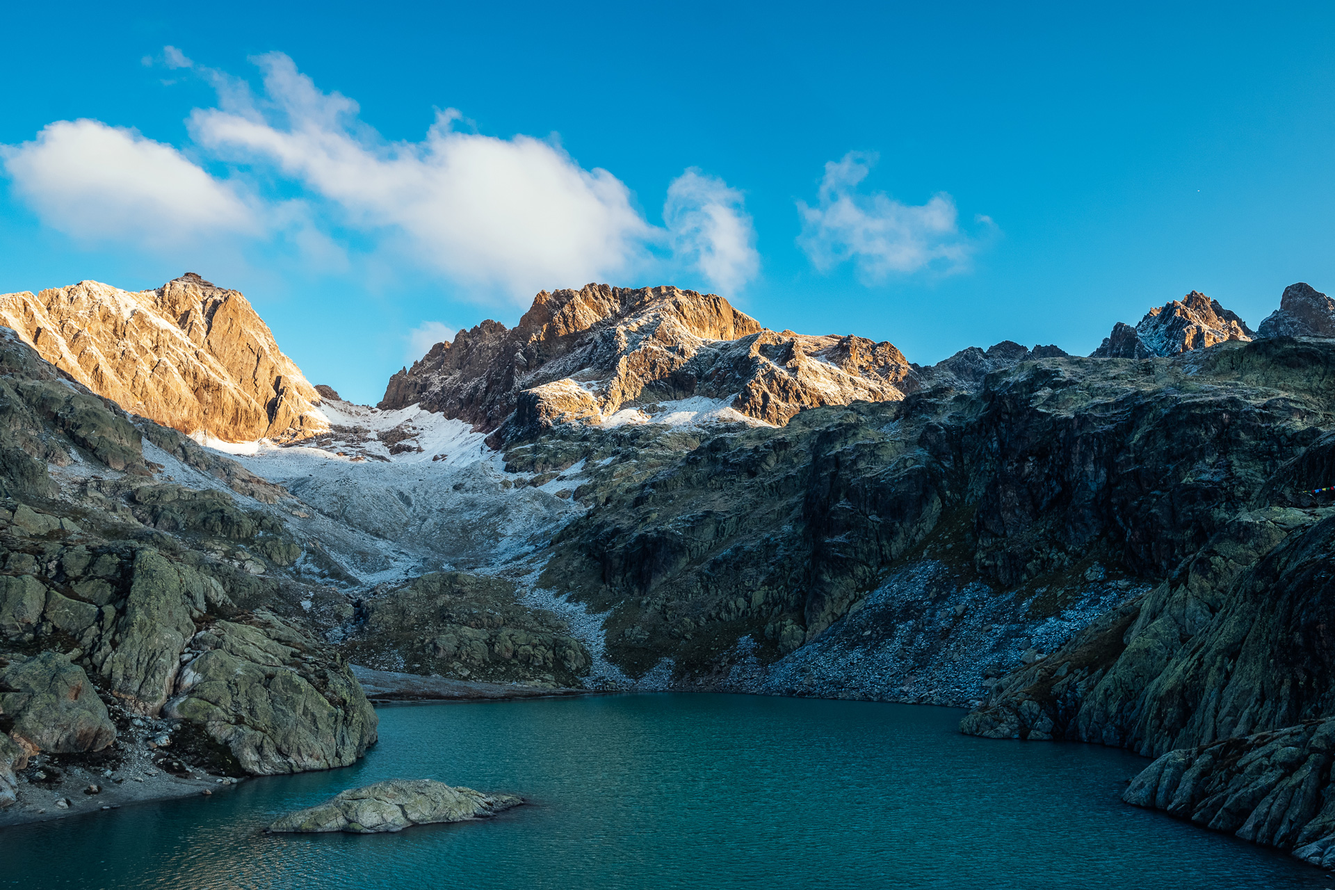
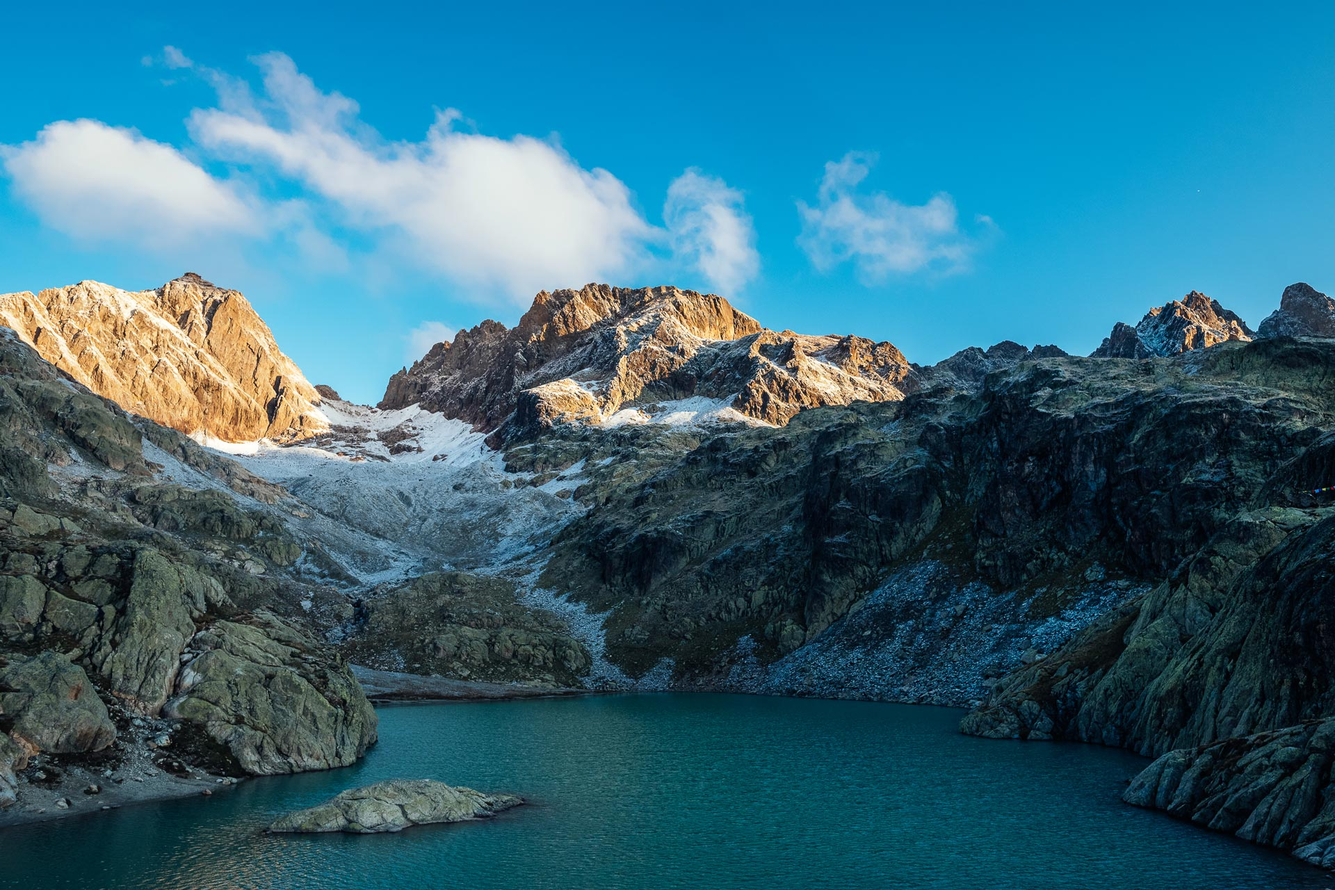
image optim + mobile view

diff --git a/src/App.vue b/src/App.vue
@@ -48,9 +48,9 @@ body {
 
 #app h1 {
   color: white;
-  font-size: 5rem;
+  font-size: 2.5rem;
   border: 4px solid white;
-  padding: 1.5rem 5rem;
+  padding: 1.5rem 1.5rem;
   text-transform: uppercase;
   letter-spacing: 0.2rem;
   text-shadow: 0px 0px 10px #000000;
@@ -59,11 +59,22 @@ body {
 #app h2 {
   color: white;
   font-size: 2.5rem;
+  padding: 0 2.5rem;
+  text-shadow: 0px 0px 10px #000000;
 }
 
 #app p {
   font-style: italic;
   color: white;
   font-size: 2.5rem;
+  padding: 0 2.5rem;
+  text-shadow: 0px 0px 10px #000000;
+}
+
+@media screen and (min-width: 48em) {
+  #app h1 {
+    font-size:5rem;
+    padding: 1.5rem 5rem;
+  }
 }
 </style>

diff --git a/public/index.html b/public/index.html
@@ -5,7 +5,7 @@
     <meta http-equiv="X-UA-Compatible" content="IE=edge">
     <meta name="viewport" content="width=device-width,initial-scale=1.0">
     <link rel="icon" href="<%= BASE_URL %>favicon.ico">
-    <title>caroline.guide</title>
+    <title>Caroline Brialon</title>
   </head>
   <body>
     <noscript>
